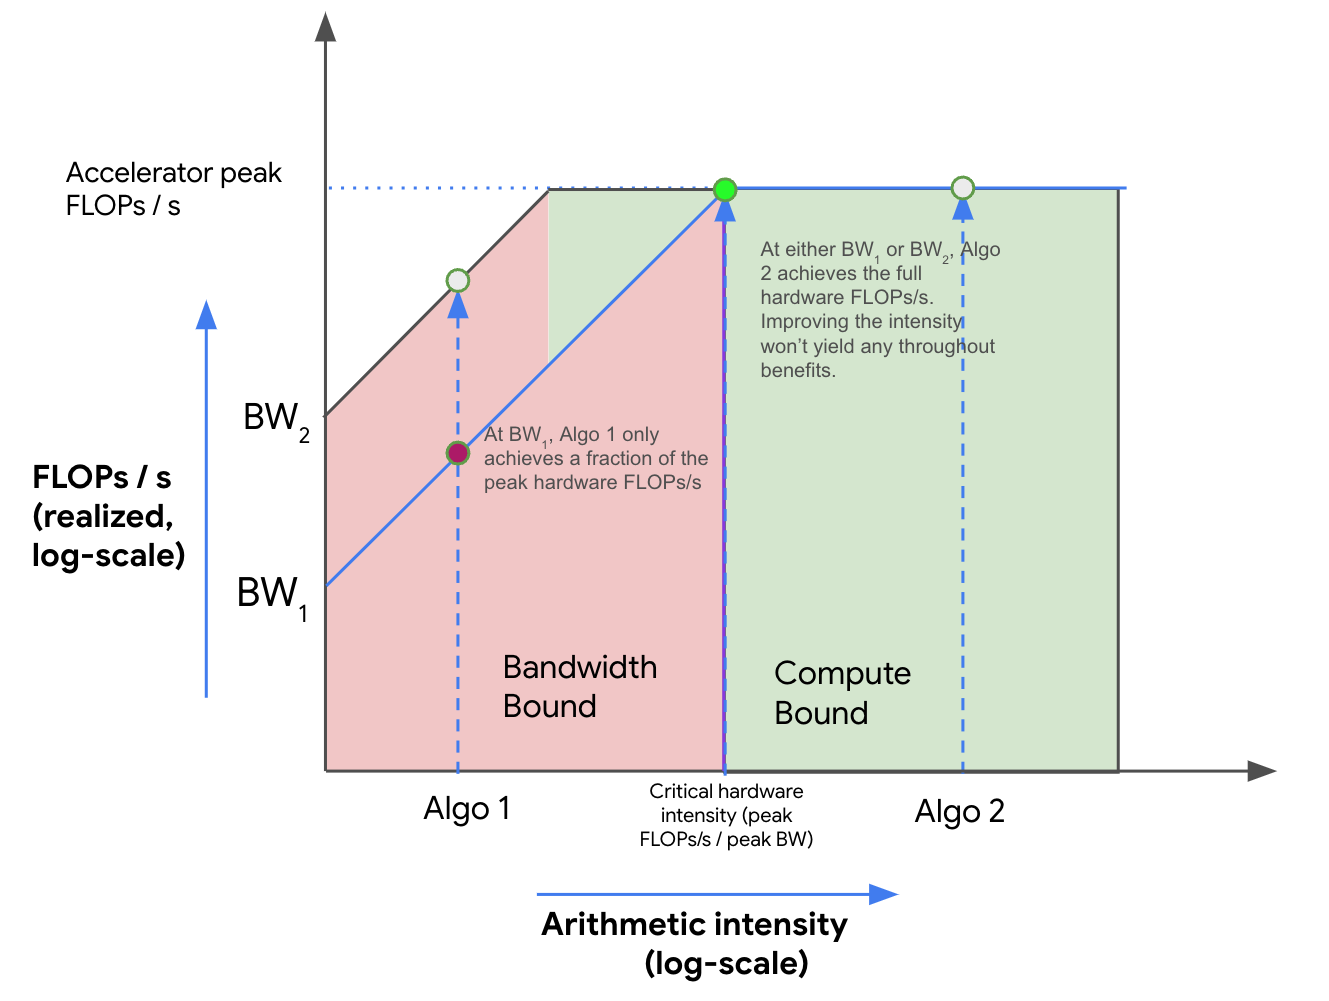
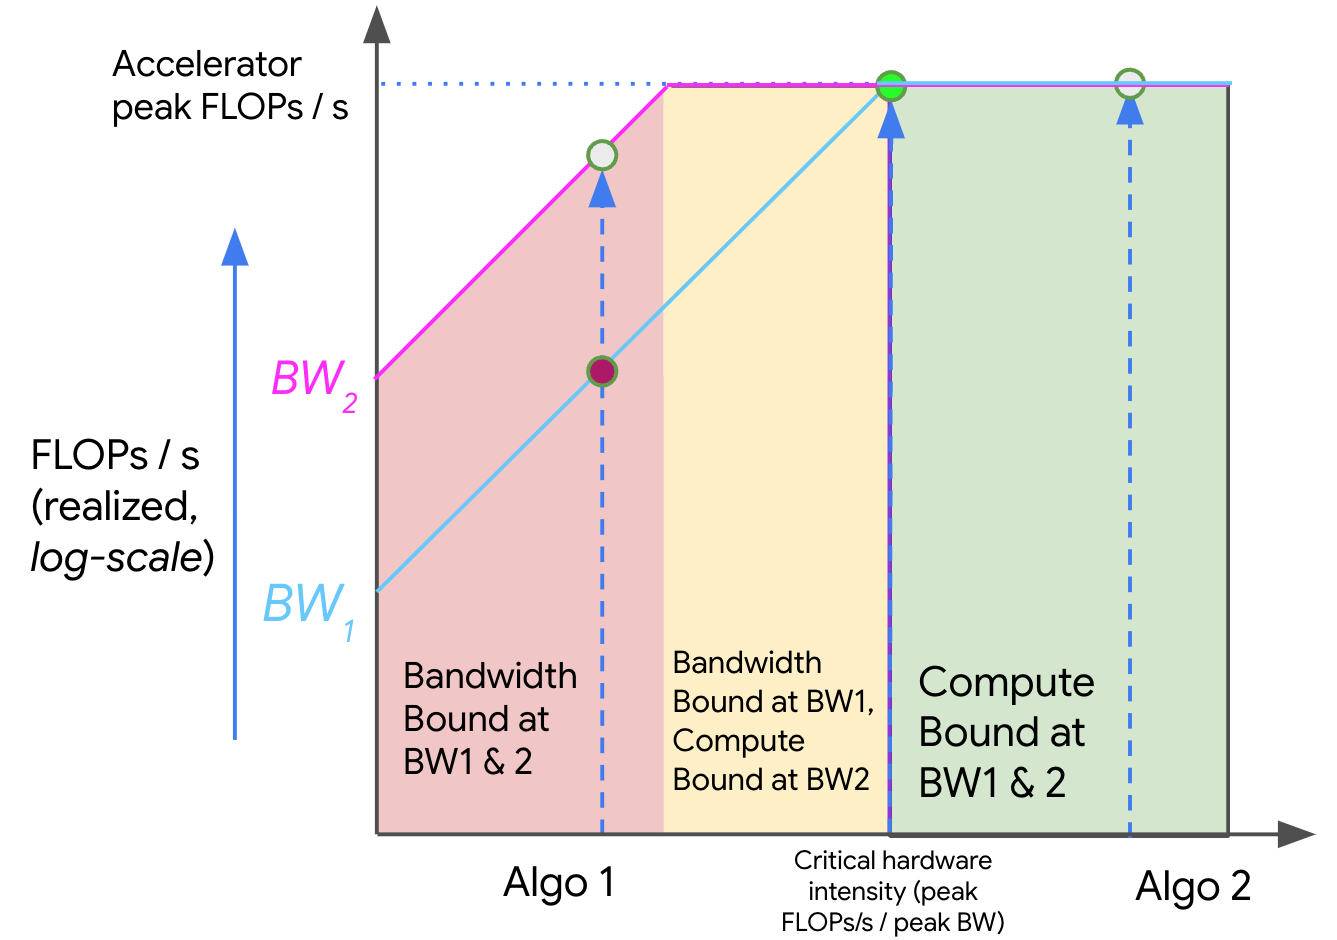
Improves roofline plot

diff --git a/roofline.md b/roofline.md
@@ -140,7 +140,7 @@ as $N\rightarrow\infty$. So the dot product has an arithmetic intensity of $\fra
 
 We can visualize the tradeoff between memory and compute using a **roofline plot**, which plots the peak achievable FLOPs/s (throughput) of an algorithm on our hardware (the y-axis) against the arithmetic intensity of that algorithm (the x-axis). Here's an example log-log plot:
 
-{% include figure.liquid path="assets/img/roofline-improved.png" class="img-fluid" caption="<b>Figure:</b> an example roofline plot showing two algorithms with different arithmetic intensities (Algo 1 and Algo 2) and their corresponding theoretical peak throughput under different bandwidths (BW1 and BW2)." %}
+{% include figure.liquid path="assets/img/roofline-improved.png" class="img-fluid" caption="<b>Figure:</b> an example roofline plot showing two algorithms with different arithmetic intensities (Algo 1 and Algo 2) and their corresponding theoretical peak throughput under different bandwidths (BW1 and BW2). In the red area, an algorithm is bandwidth bound at both bandwidths and is wasting some fraction of the hardware's peak FLOPs/s. The yellow area is bandwidth-bound only at the lower bandwidth (BW1). The green area is compute-bound at all bandwidths. Here, we are using the peak FLOPs/s of the accelerator and increasing bandwidth or improving intensity yield no benefit." %}
 
 Above, as the intensity increases (moving left to right), we initially see a linear increase in the performance of our algorithm (in FLOPs/s) until we hit the critical arithmetic intensity of the hardware, 240 in the case of the TPU v5e. Any algorithm with a lower intensity will be bandwidth (BW) bound and limited by the peak memory bandwidth (shown in red). Any algorithm to the right will fully utilize our FLOPs (shown in green). Here, Algo 1 is comms-bound and uses only a fraction of the total hardware FLOPs/s. Algo 2 is compute-bound. We can generally improve the performance of an algorithm either by increasing its arithmetic intensity or by increasing the memory bandwidth available (moving from BW1 to BW2).
 
